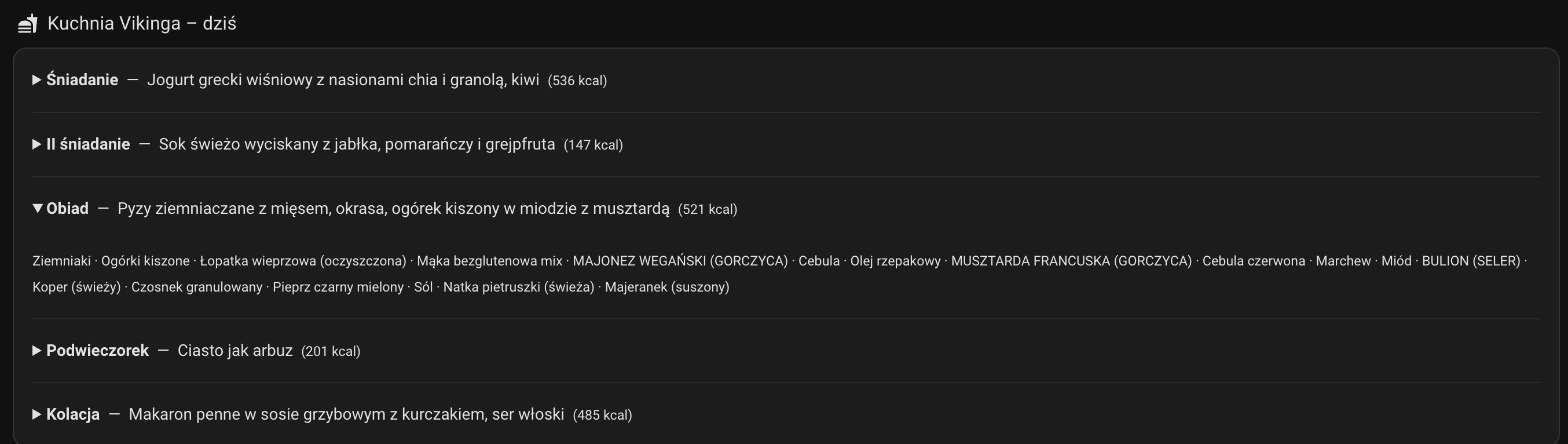
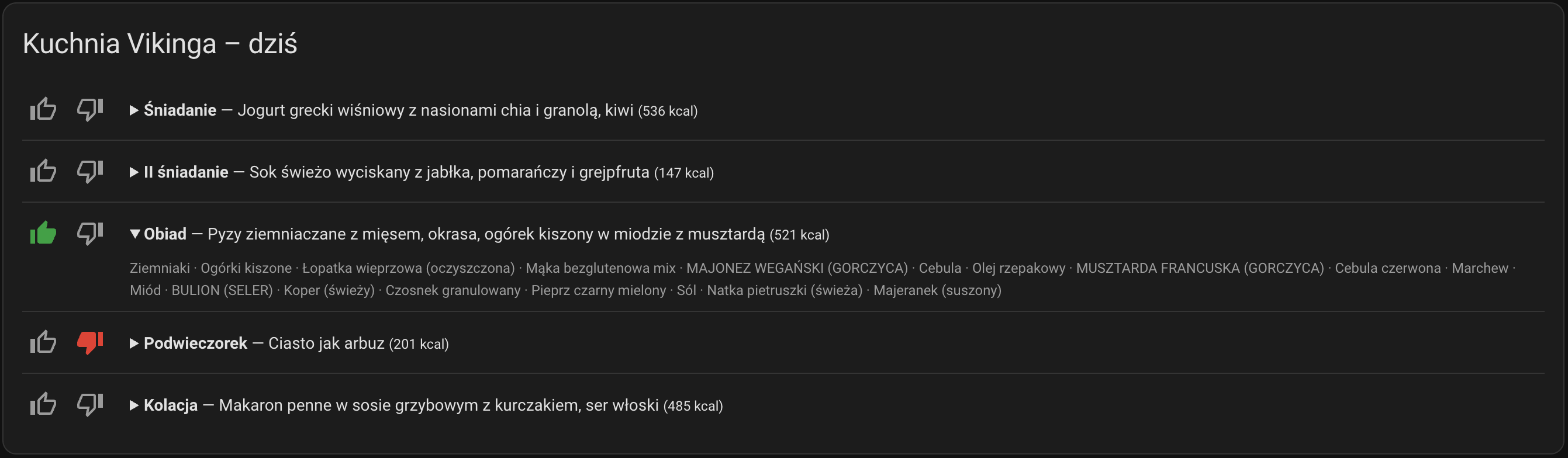
Add 👍/👎 voting for each meal with a bundled dashboard card
- kuchnia_vikinga.vote service (up/down/none), votes stored locally in
  .storage/kuchnia_vikinga.votes keyed by dish name
- each meal in the sensor's meals attribute gets a vote field
- custom:kuchnia-vikinga-card served by the integration: fixed-width
  vote column on the left, collapsible ingredients
- README (PL) and screenshot updated, version 0.2.0

Claude-Session: https://claude.ai/code/session_01QuGhTMjDbNR2o2Tq5Xerxq

diff --git a/custom_components/kuchnia_vikinga/www/kuchnia-vikinga-card.js b/custom_components/kuchnia_vikinga/www/kuchnia-vikinga-card.js
@@ -1,0 +1,100 @@
+// Kuchnia Vikinga dashboard card: today's meals with 👍/👎 voting.
+// Usage: type: custom:kuchnia-vikinga-card (optional: entity, title)
+
+const esc = (s) =>
+  String(s ?? "").replace(/[&<>"']/g, (c) => ({ "&": "&amp;", "<": "&lt;", ">": "&gt;", '"': "&quot;", "'": "&#39;" })[c]);
+
+class KuchniaVikingaCard extends HTMLElement {
+  setConfig(config) {
+    this._config = { entity: "sensor.kuchnia_vikinga_dzisiaj", title: "Kuchnia Vikinga – dziś", ...config };
+    this._state = undefined;
+    if (!this.shadowRoot) {
+      this.attachShadow({ mode: "open" });
+      this.shadowRoot.addEventListener("click", (ev) => this._onClick(ev));
+    }
+  }
+
+  set hass(hass) {
+    this._hass = hass;
+    const state = hass.states[this._config.entity];
+    if (state !== this._state) {
+      this._state = state;
+      this._render();
+    }
+  }
+
+  _onClick(ev) {
+    const btn = ev.target.closest("button[data-vote]");
+    if (!btn) return;
+    const meal = this._meals()[Number(btn.dataset.index)];
+    // Clicking the active vote again clears it.
+    const vote = meal.vote === btn.dataset.vote ? "none" : btn.dataset.vote;
+    this._hass.callService("kuchnia_vikinga", "vote", { name: meal.name, vote });
+  }
+
+  _meals() {
+    return this._state?.attributes?.meals ?? [];
+  }
+
+  _render() {
+    // Keep expanded rows expanded across re-renders (e.g. after a vote).
+    const open = new Set([...this.shadowRoot.querySelectorAll("details[open]")].map((d) => d.dataset.name));
+    const meals = this._meals();
+    const rows = meals
+      .map(
+        (m, i) => `
+        <div class="row">
+          <div class="votes">
+            <button data-vote="up" data-index="${i}" class="${m.vote === "up" ? "up" : ""}" title="Smakuje">
+              <ha-icon icon="${m.vote === "up" ? "mdi:thumb-up" : "mdi:thumb-up-outline"}"></ha-icon>
+            </button>
+            <button data-vote="down" data-index="${i}" class="${m.vote === "down" ? "down" : ""}" title="Nie smakuje">
+              <ha-icon icon="${m.vote === "down" ? "mdi:thumb-down" : "mdi:thumb-down-outline"}"></ha-icon>
+            </button>
+          </div>
+          <details data-name="${esc(m.name)}" ${open.has(m.name) ? "open" : ""}>
+            <summary><b>${esc(m.meal)}</b> — ${esc(m.name)} <small>(${esc(m.kcal)} kcal)</small></summary>
+            <div class="ingredients">${(m.ingredients ?? []).map(esc).join(" · ")}</div>
+          </details>
+        </div>`
+      )
+      .join("");
+    this.shadowRoot.innerHTML = `
+      <style>
+        .row { display: flex; align-items: flex-start; gap: 12px; padding: 8px 0; }
+        .row + .row { border-top: 1px solid var(--divider-color); }
+        .votes { flex: 0 0 80px; display: flex; gap: 4px; }
+        button { all: unset; cursor: pointer; width: 36px; height: 36px; display: flex;
+                 align-items: center; justify-content: center; border-radius: 50%;
+                 color: var(--secondary-text-color); }
+        button:hover { background: var(--secondary-background-color); }
+        button.up { color: var(--success-color, #4caf50); }
+        button.down { color: var(--error-color, #f44336); }
+        details { flex: 1; min-width: 0; padding-top: 8px; }
+        summary { cursor: pointer; }
+        .ingredients { margin-top: 8px; font-size: 0.85em; color: var(--secondary-text-color); }
+        .empty { font-style: italic; color: var(--secondary-text-color); }
+      </style>
+      <ha-card header="${esc(this._config.title)}">
+        <div class="card-content">
+          ${this._state ? rows || '<div class="empty">Brak dostawy dzisiaj.</div>' : `<div class="empty">Brak encji ${esc(this._config.entity)}</div>`}
+        </div>
+      </ha-card>`;
+  }
+
+  getCardSize() {
+    return 1 + this._meals().length;
+  }
+
+  getGridOptions() {
+    return { columns: "full" };
+  }
+}
+
+customElements.define("kuchnia-vikinga-card", KuchniaVikingaCard);
+window.customCards = window.customCards || [];
+window.customCards.push({
+  type: "kuchnia-vikinga-card",
+  name: "Kuchnia Vikinga",
+  description: "Dzisiejsze posiłki z ocenami 👍/👎",
+});

diff --git a/custom_components/kuchnia_vikinga/__init__.py b/custom_components/kuchnia_vikinga/__init__.py
@@ -1,13 +1,56 @@
-"""Kuchnia Vikinga: today's meals and their ingredients as one sensor."""
+"""Kuchnia Vikinga: today's meals and their ingredients as one sensor, with 👍/👎 votes."""
 
 from __future__ import annotations
 
+from pathlib import Path
+
 import aiohttp
+import voluptuous as vol
+from homeassistant.components.frontend import add_extra_js_url
+from homeassistant.components.http import StaticPathConfig
 from homeassistant.config_entries import ConfigEntry
-from homeassistant.const import CONF_PASSWORD, CONF_USERNAME, Platform
-from homeassistant.core import HomeAssistant
+from homeassistant.const import CONF_NAME, CONF_PASSWORD, CONF_USERNAME, Platform
+from homeassistant.core import HomeAssistant, ServiceCall
+from homeassistant.helpers import config_validation as cv
+from homeassistant.helpers.dispatcher import async_dispatcher_send
+from homeassistant.helpers.storage import Store
+from homeassistant.helpers.typing import ConfigType
+from homeassistant.loader import async_get_integration
 
 from .api import VikingClient
+from .const import CARD_URL, DOMAIN, SIGNAL_VOTES, STORAGE_KEY, VOTES
+
+CONFIG_SCHEMA = cv.config_entry_only_config_schema(DOMAIN)
+
+VOTE_SCHEMA = vol.Schema(
+    {vol.Required(CONF_NAME): cv.string, vol.Required("vote"): vol.In([*VOTES, "none"])}
+)
+
+
+async def async_setup(hass: HomeAssistant, config: ConfigType) -> bool:
+    store: Store[dict[str, str]] = Store(hass, 1, STORAGE_KEY)
+    votes: dict[str, str] = await store.async_load() or {}
+    hass.data[DOMAIN] = votes
+
+    async def vote(call: ServiceCall) -> None:
+        """Set (or with vote=none clear) the vote for a dish."""
+        name = call.data[CONF_NAME].strip()
+        if call.data["vote"] == "none":
+            votes.pop(name, None)
+        else:
+            votes[name] = call.data["vote"]
+        await store.async_save(votes)
+        async_dispatcher_send(hass, SIGNAL_VOTES)
+
+    hass.services.async_register(DOMAIN, "vote", vote, schema=VOTE_SCHEMA)
+
+    # The dashboard card ships with the integration, no separate download needed.
+    if hass.http is not None and "frontend" in hass.config.components:
+        version = (await async_get_integration(hass, DOMAIN)).version
+        card = Path(__file__).parent / "www" / "kuchnia-vikinga-card.js"
+        await hass.http.async_register_static_paths([StaticPathConfig(CARD_URL, str(card), False)])
+        add_extra_js_url(hass, f"{CARD_URL}?v={version}")
+    return True
 
 
 async def async_setup_entry(hass: HomeAssistant, entry: ConfigEntry) -> bool:

diff --git a/custom_components/kuchnia_vikinga/sensor.py b/custom_components/kuchnia_vikinga/sensor.py
@@ -1,4 +1,4 @@
-"""Sensor: state = number of meals today, attribute `meals` = [{meal, name, ingredients}].
+"""Sensor: state = number of meals today, attribute `meals` = [{meal, name, kcal, ingredients, vote}].
 
 The panel is asked once a day. After a successful fetch nothing is requested
 until the date changes; on failure it tries again at the next full hour.
@@ -12,12 +12,13 @@ from datetime import date
 from homeassistant.components.sensor import SensorEntity
 from homeassistant.config_entries import ConfigEntry
 from homeassistant.core import HomeAssistant, callback
+from homeassistant.helpers.dispatcher import async_dispatcher_connect
 from homeassistant.helpers.entity_platform import AddEntitiesCallback
 from homeassistant.helpers.event import async_track_time_change
 from homeassistant.util import dt as dt_util
 
 from .api import VikingClient
-from .const import TIME_ZONE
+from .const import DOMAIN, SIGNAL_VOTES, TIME_ZONE
 
 _LOGGER = logging.getLogger(__name__)
 
@@ -39,10 +40,24 @@ class TodayMealsSensor(SensorEntity):
         self._client = client
         self._attr_unique_id = f"{entry_id}_today"
         self._day: date | None = None  # day of the last successful fetch
+        self._meals: list[dict] = []
+
+    @property
+    def extra_state_attributes(self) -> dict | None:
+        if self._day is None:
+            return None
+        votes = self.hass.data[DOMAIN]
+        return {
+            "date": self._day.isoformat(),
+            "meals": [{**m, "vote": votes.get(m["name"])} for m in self._meals],
+        }
 
     async def async_added_to_hass(self) -> None:
         self.async_on_remove(
             async_track_time_change(self.hass, self._hourly, minute=5, second=0)
+        )
+        self.async_on_remove(
+            async_dispatcher_connect(self.hass, SIGNAL_VOTES, self.async_write_ha_state)
         )
         self.hass.async_create_task(self._refresh())
 
@@ -60,6 +75,6 @@ class TodayMealsSensor(SensorEntity):
             _LOGGER.warning("Fetching today's meals failed, will retry in an hour: %s", err)
             return
         self._day = today
+        self._meals = meals
         self._attr_native_value = len(meals)
-        self._attr_extra_state_attributes = {"date": today.isoformat(), "meals": meals}
         self.async_write_ha_state()

diff --git a/tests/test_setup.py b/tests/test_setup.py
@@ -26,7 +26,7 @@ async def test_flow_and_sensor(enable_custom_integrations, hass):
 
         state = hass.states.get("sensor.kuchnia_vikinga_dzisiaj")
         assert state.state == "1"
-        assert state.attributes["meals"] == MEALS
+        assert state.attributes["meals"] == [{**MEALS[0], "vote": None}]
         assert fetch.await_count == 1
 
         # Same day: no new request to the panel.
@@ -43,3 +43,29 @@ async def test_flow_invalid_auth(enable_custom_integrations, hass):
         result = await hass.config_entries.flow.async_configure(result["flow_id"], USER)
     assert result["type"] is FlowResultType.FORM
     assert result["errors"] == {"base": "invalid_auth"}
+
+
+async def test_vote(enable_custom_integrations, hass, hass_storage):
+    with patch(f"{CLIENT}.login", new=AsyncMock()), patch(
+        f"{CLIENT}.logout", new=AsyncMock()
+    ), patch(f"{CLIENT}.todays_meals", new=AsyncMock(return_value=MEALS)):
+        result = await hass.config_entries.flow.async_init(
+            DOMAIN, context={"source": config_entries.SOURCE_USER}
+        )
+        await hass.config_entries.flow.async_configure(result["flow_id"], USER)
+        await hass.async_block_till_done()
+
+        def vote():
+            return hass.states.get("sensor.kuchnia_vikinga_dzisiaj").attributes["meals"][0]["vote"]
+
+        await hass.services.async_call(
+            DOMAIN, "vote", {"name": "Zupa pomidorowa", "vote": "up"}, blocking=True
+        )
+        assert vote() == "up"
+        await hass.async_block_till_done()
+        assert hass_storage["kuchnia_vikinga.votes"]["data"] == {"Zupa pomidorowa": "up"}
+
+        await hass.services.async_call(
+            DOMAIN, "vote", {"name": "Zupa pomidorowa", "vote": "none"}, blocking=True
+        )
+        assert vote() is None

diff --git a/custom_components/kuchnia_vikinga/const.py b/custom_components/kuchnia_vikinga/const.py
@@ -2,3 +2,10 @@
 
 DOMAIN = "kuchnia_vikinga"
 TIME_ZONE = "Europe/Warsaw"
+
+# Votes are kept locally in .storage, keyed by dish name.
+STORAGE_KEY = f"{DOMAIN}.votes"
+SIGNAL_VOTES = f"{DOMAIN}_votes_changed"
+VOTES = ("up", "down")
+
+CARD_URL = f"/{DOMAIN}/kuchnia-vikinga-card.js"

diff --git a/README.md b/README.md
@@ -56,38 +56,38 @@ Następnie uruchom ponownie Home Assistant.
 
 Integracja tworzy jeden sensor, `sensor.kuchnia_vikinga_dzisiaj`:
 - **stan**: liczba posiłków dostarczonych dzisiaj (0, jeśli nie ma dostawy)
-- **atrybuty**: `date` oraz `meals`, czyli lista `{meal, name, kcal, ingredients}`
+- **atrybuty**: `date` oraz `meals`, czyli lista `{meal, name, kcal, ingredients, vote}`
 
 Panel jest odpytywany **raz dziennie**. Po udanym pobraniu integracja nie łączy się z nim aż do
 następnego dnia. Jeśli pobranie się nie uda, ponawia próbę 5 minut po każdej pełnej godzinie.
 
 ## Karta na dashboard
 
-Sekcja na całą szerokość (widok sekcji) z jednym rozwijanym wierszem na posiłek. Składniki są
-ukryte, dopóki nie klikniesz posiłku.
-Edytuj dashboard → ⋮ → *Edytor konfiguracji YAML* → wklej poniższy fragment do listy `sections:` widoku:
+Integracja zawiera własną kartę, nie trzeba niczego doinstalowywać. Każdy posiłek ma po lewej
+stronie przyciski 👍/👎, a po kliknięciu nazwy rozwijają się składniki. Ponowne kliknięcie
+aktywnego kciuka usuwa ocenę.
+
+Edytuj dashboard → *Dodaj kartę* → wyszukaj **Kuchnia Vikinga** albo wklej w edytorze YAML:
 
 ```yaml
-type: grid
-column_span: 4
-cards:
-  - type: heading
-    heading: Kuchnia Vikinga – dziś
-    icon: mdi:food
-  - type: markdown
-    grid_options:
-      columns: full
-    content: |-
-      {%- set meals = state_attr('sensor.kuchnia_vikinga_dzisiaj', 'meals') or [] -%}
-      {%- for m in meals %}
-      <details>
-      <summary><b>{{ m.meal }}</b> &nbsp;—&nbsp; {{ m.name }} &nbsp;<small>({{ m.kcal }} kcal)</small></summary>
-      <br><small>{{ m.ingredients | join(' · ') }}</small>
-      </details>
-      {% if not loop.last %}<hr>{% endif %}
-      {%- else %}
-      <i>Brak dostawy dzisiaj.</i>
-      {%- endfor %}
+type: custom:kuchnia-vikinga-card
+```
+
+Opcjonalnie: `entity` (domyślnie `sensor.kuchnia_vikinga_dzisiaj`) i `title`.
+
+## Oceny
+
+Oceny są zapisywane lokalnie w Home Assistant (`.storage/kuchnia_vikinga.votes`) według nazwy
+dania, więc to samo danie w kolejnych dniach ma już Twoją ocenę. Każdy posiłek w atrybucie
+`meals` ma pole `vote` (`up`, `down` albo puste).
+
+Ocenę można też ustawić usługą, np. w automatyzacji:
+
+```yaml
+action: kuchnia_vikinga.vote
+data:
+  name: Zupa pomidorowa
+  vote: up   # up, down albo none
 ```
 
 Ikona integracji (`brand/icon.png`) jest widoczna w Home Assistant 2026.3 i nowszych.
